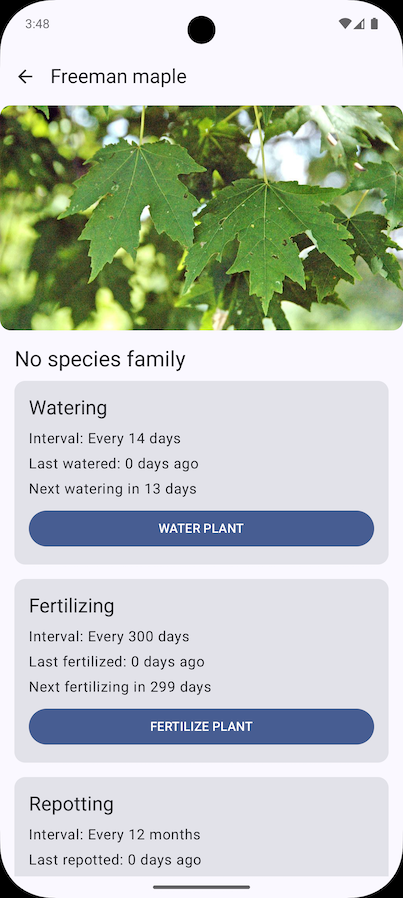
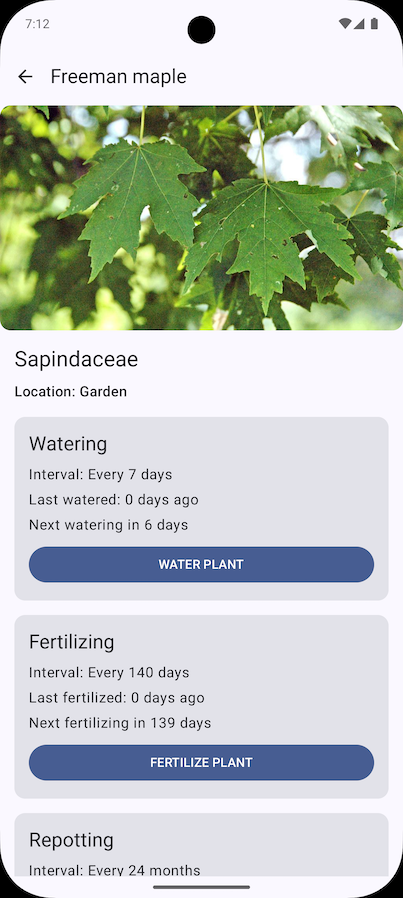
This commit introduces two key fixes to the `mapSpeciesToPlant` function to prevent potential runtime crashes and improve data quality.
1.  **Fix for `speciesFamily` mapping:**
    - The fallback logic for `speciesFamily` has been corrected.
    - If `speciesDto.family` is null, the code now safely takes the first word of the first scientific name from the `scientificName` list. This prevents assigning a full, incorrect name and handles cases where the list might be empty.

2.  **Null safety for `imageUrl`:**
    - Added safe call (`?.`) and elvis operators (`?: ""`) to the `imageUrl` mapping.
    - This prevents a `NullPointerException` if `defaultImage` is null, ensuring the app remains stable.

Changed region(s): [[0.0298, 0.3742, 0.9529, 0.9978], [0.0596, 0.0, 0.1191, 0.0312]]

diff --git a/app/src/main/java/com/danielvilha/fulora/ui/create/CreatePlantScreen.kt b/app/src/main/java/com/danielvilha/fulora/ui/create/CreatePlantScreen.kt
@@ -38,7 +38,9 @@ import androidx.compose.runtime.setValue
 import androidx.compose.ui.Modifier
 import androidx.compose.ui.draw.clip
 import androidx.compose.ui.layout.ContentScale
+import androidx.compose.ui.platform.testTag
 import androidx.compose.ui.res.stringArrayResource
+import androidx.compose.ui.res.stringResource
 import androidx.compose.ui.semantics.isTraversalGroup
 import androidx.compose.ui.semantics.semantics
 import androidx.compose.ui.tooling.preview.PreviewParameter
@@ -139,60 +141,20 @@ fun CreatePlantScreen(
 
                         Spacer(modifier = Modifier.height(24.dp))
 
-                        Text("Detalhes da Planta", style = MaterialTheme.typography.titleLarge)
+                        Text("Plant Details", style = MaterialTheme.typography.titleLarge)
                         Spacer(modifier = Modifier.height(16.dp))
 
                         OutlinedTextField(
                             value = state.plant?.name ?: "",
                             onValueChange = { onEvent(CreatePlantUiEvent.OnPlantNameChange(it)) },
-                            label = { Text("Nome da Planta") },
+                            label = { Text(stringResource(id = R.string.plant_name)) },
                             singleLine = true,
                             modifier = Modifier.fillMaxWidth()
                         )
 
                         Spacer(modifier = Modifier.height(8.dp))
 
-                        var isLocationMenuExpanded by rememberSaveable { mutableStateOf(false) }
-                        val locations = stringArrayResource(id = R.array.localization)
-
-                        ExposedDropdownMenuBox(
-                            expanded = isLocationMenuExpanded,
-                            onExpandedChange = { isLocationMenuExpanded = it },
-                            modifier = Modifier.fillMaxWidth()
-                        ) {
-                            OutlinedTextField(
-                                value = state.plant?.location ?: "",
-                                onValueChange = {},
-                                readOnly = true,
-                                label = { Text("Localization") },
-                                trailingIcon = {
-                                    ExposedDropdownMenuDefaults.TrailingIcon(
-                                        expanded = isLocationMenuExpanded
-                                    )
-                                },
-                                modifier = Modifier
-                                    .menuAnchor(
-                                        ExposedDropdownMenuAnchorType.PrimaryNotEditable,
-                                        true
-                                    )
-                                    .fillMaxWidth()
-                            )
-
-                            ExposedDropdownMenu(
-                                expanded = isLocationMenuExpanded,
-                                onDismissRequest = { isLocationMenuExpanded = false }
-                            ) {
-                                locations.forEach { location ->
-                                    DropdownMenuItem(
-                                        text = { Text(location) },
-                                        onClick = {
-                                            onEvent(CreatePlantUiEvent.OnPlantLocationChange(location))
-                                            isLocationMenuExpanded = false
-                                        }
-                                    )
-                                }
-                            }
-                        }
+                        LocationsField(state, onEvent)
 
                         Spacer(modifier = Modifier.height(8.dp))
                         WateringFrequencyField(state, onEvent)
@@ -210,9 +172,63 @@ fun CreatePlantScreen(
                             modifier = Modifier.fillMaxWidth(),
                             enabled = state.isEnabled
                         ) {
-                            Text("SALVAR PLANTA")
+                            Text(
+                                modifier = Modifier.testTag("SAVE PLANT BUTTON"),
+                                text = stringResource(id = R.string.save_plant).uppercase(),
+                            )
                         }
                     }
+                }
+            }
+        }
+    }
+}
+
+@OptIn(ExperimentalMaterial3Api::class)
+@Composable
+fun LocationsField(
+    state: CreatePlantUiState,
+    onEvent: (CreatePlantUiEvent) -> Unit
+) {
+    var isLocationMenuExpanded by rememberSaveable { mutableStateOf(false) }
+    val locations = stringArrayResource(id = R.array.localization)
+
+    Row {
+        ExposedDropdownMenuBox(
+            expanded = isLocationMenuExpanded,
+            onExpandedChange = { isLocationMenuExpanded = it },
+            modifier = Modifier.fillMaxWidth()
+        ) {
+            OutlinedTextField(
+                value = state.plant?.location ?: "",
+                onValueChange = {},
+                readOnly = true,
+                label = { Text(text = stringResource(R.string.location)) },
+                trailingIcon = {
+                    ExposedDropdownMenuDefaults.TrailingIcon(
+                        expanded = isLocationMenuExpanded
+                    )
+                },
+                modifier = Modifier
+                    .menuAnchor(
+                        ExposedDropdownMenuAnchorType.PrimaryNotEditable,
+                        true
+                    )
+                    .fillMaxWidth()
+            )
+
+            ExposedDropdownMenu(
+                expanded = isLocationMenuExpanded,
+                onDismissRequest = { isLocationMenuExpanded = false }
+            ) {
+                locations.forEach { location ->
+                    DropdownMenuItem(
+                        text = { Text(location) },
+                        onClick = {
+                            onEvent(CreatePlantUiEvent.OnPlantLocationChange(location))
+                            isLocationMenuExpanded = false
+                        }
+                    )
                 }
             }
         }
@@ -250,7 +266,7 @@ private fun PlantSearchBar(
                     },
                     expanded = active,
                     onExpandedChange = { active = it },
-                    placeholder = { Text("Search specie...") },
+                    placeholder = { Text(text = stringResource(R.string.search_specie)) },
                     trailingIcon = { Icon(Icons.Default.Search, contentDescription = null) },
                     leadingIcon = {
                         IconButton(onClick = onBackClick) {
@@ -302,7 +318,7 @@ private fun WateringFrequencyField(
                 value = state.plant?.wateringIntervalDays?.takeIf { it > 0 }?.toString() ?: "",
                 onValueChange = {},
                 readOnly = true,
-                label = { Text("Watering Frequency (days)") },
+                label = { Text(text = stringResource(R.string.watering_frequency)) },
                 trailingIcon = {
                     ExposedDropdownMenuDefaults.TrailingIcon(
                         expanded = isLocationMenuExpanded
@@ -350,7 +366,7 @@ private fun FertilizingFrequencyField(
                 value = state.plant?.fertilizingIntervalDays?.takeIf { it > 0 }?.toString() ?: "",
                 onValueChange = {},
                 readOnly = true,
-                label = { Text("Fertilization Frequency (days)") },
+                label = { Text(text = stringResource(R.string.fertilizing_frequency)) },
                 trailingIcon = {
                     ExposedDropdownMenuDefaults.TrailingIcon(
                         expanded = isLocationMenuExpanded
@@ -398,7 +414,7 @@ private fun ReportingFrequencyField(
                 value = state.plant?.reportingIntervalMonths?.takeIf { it > 0 }?.toString() ?: "",
                 onValueChange = {},
                 readOnly = true,
-                label = { Text("Frequency of pot replacement (months)") },
+                label = { Text(text = stringResource(R.string.frequency_of_pot_replacement)) },
                 trailingIcon = {
                     ExposedDropdownMenuDefaults.TrailingIcon(
                         expanded = isLocationMenuExpanded

diff --git a/app/src/main/java/com/danielvilha/fulora/ui/create/CreatePlantViewModel.kt b/app/src/main/java/com/danielvilha/fulora/ui/create/CreatePlantViewModel.kt
@@ -114,10 +114,15 @@ class CreatePlantViewModel @Inject constructor(
     private fun onSpeciesChange(speciesName: String) {
         viewModelScope.launch {
             try {
-                val plant = plantRepository.searchPlant(speciesName)
-                _uiState.update {
-                    it.copy(
-                        plant = plant?.copy(name = speciesName),
+                val speciesPlantData = plantRepository.searchPlant(speciesName)
+                _uiState.update { currentState ->
+                    val currentEditedPlant = currentState.plant
+                    val mergedPlant = speciesPlantData?.copy(
+                        name = currentEditedPlant?.name?.takeIf { it.isNotBlank() } ?: speciesPlantData.name,
+                        location = currentEditedPlant?.location ?: speciesPlantData.location,
+                    )
+                    currentState.copy(
+                        plant = mergedPlant,
                         searchQuery = "",
                         searchResults = null
                     )
@@ -138,11 +143,7 @@ class CreatePlantViewModel @Inject constructor(
         viewModelScope.launch {
             if (currentPlant != null) {
                 try {
-                    val plantToSave = currentPlant.copy(
-                        specieId = _uiState.value.searchResults?.species?.firstOrNull()?.id,
-                        speciesFamily = _uiState.value.searchResults?.species?.firstOrNull()?.family
-                    )
-                    plantRepository.createPlant(plantToSave)
+                    plantRepository.createPlant(currentPlant)
                     _uiState.update { it.copy(isSaved = true) }
                     _events.send(CreatePlantEvent.SaveSuccess)
                 } catch (e: Exception) {

diff --git a/app/src/main/java/com/danielvilha/fulora/service/PlantRepository.kt b/app/src/main/java/com/danielvilha/fulora/service/PlantRepository.kt
@@ -1,9 +1,11 @@
 package com.danielvilha.fulora.service
 
+import androidx.compose.ui.text.toUpperCase
 import com.danielvilha.fulora.data.Plant
 import com.danielvilha.fulora.data.PlantDao
 import com.danielvilha.fulora.data.remote.SpeciesDto
 import kotlinx.coroutines.flow.Flow
+import java.util.Locale
 import javax.inject.Inject
 import javax.inject.Singleton
 
@@ -48,8 +50,12 @@ class PlantRepository @Inject constructor(
     private fun mapSpeciesToPlant(speciesDto: SpeciesDto): Plant {
         return Plant(
             specieId = speciesDto.id,
-            name = speciesDto.commonName,
-            speciesFamily = speciesDto.family,
+            name = speciesDto.commonName.replaceFirstChar {
+                if (it.isLowerCase()) it.titlecase(
+                    Locale.getDefault()
+                ) else it.toString()
+            },
+            speciesFamily = speciesDto.family ?: speciesDto.scientificName.firstOrNull(),
             location = "",
             wateringIntervalDays = mapWateringToDays(speciesDto.watering),
             fertilizingIntervalDays = mapFertilizingToDays(speciesDto.cultivar),
@@ -57,7 +63,7 @@ class PlantRepository @Inject constructor(
             lastWateredDate = System.currentTimeMillis(),
             lastFertilizedDate = System.currentTimeMillis(),
             lastRepottedDate = System.currentTimeMillis(),
-            imageUrl = speciesDto.defaultImage.originalUrl
+            imageUrl = speciesDto.defaultImage?.originalUrl ?: ""
         )
     }
 

diff --git a/app/src/main/java/com/danielvilha/fulora/data/Plant.kt b/app/src/main/java/com/danielvilha/fulora/data/Plant.kt
@@ -21,9 +21,9 @@ data class Plant(
 ) {
     companion object {
         fun create() = Plant(
-            specieId = null,
+            specieId = 0,
             name = "",
-            speciesFamily = null,
+            speciesFamily = "",
             location = "",
             wateringIntervalDays = 0,
             fertilizingIntervalDays = 0,
@@ -31,7 +31,7 @@ data class Plant(
             lastWateredDate = 0L,
             lastFertilizedDate = 0L,
             lastRepottedDate = 0L,
-            imageUrl = null,
+            imageUrl = "",
         )
     }
 }

diff --git a/app/src/main/java/com/danielvilha/fulora/data/remote/SpeciesDto.kt b/app/src/main/java/com/danielvilha/fulora/data/remote/SpeciesDto.kt
@@ -11,7 +11,7 @@ data class SpeciesDto(
     val scientificName: List<String>,
     @SerializedName("other_name")
     val otherName: List<String>,
-    val family: String,
+    val family: String?,
     val hybrid: String?,
     val authority: String?,
     val subspecies: String?,
